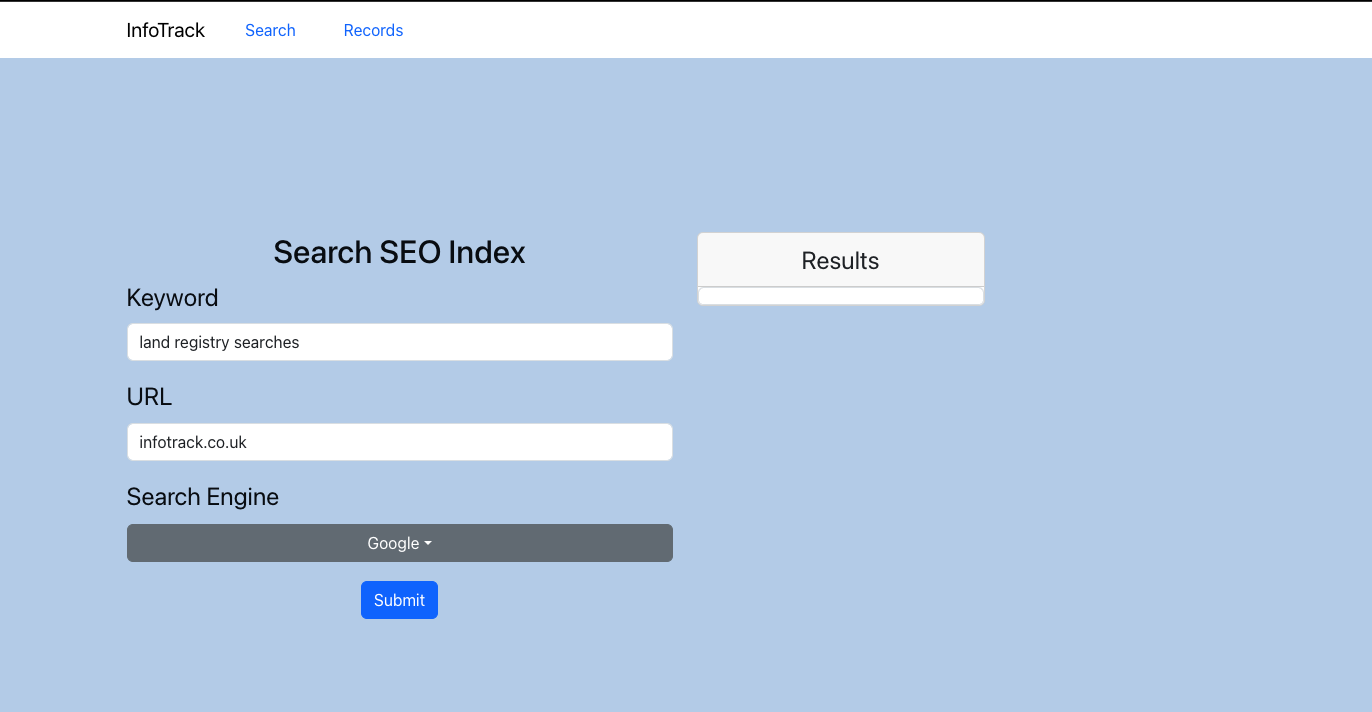
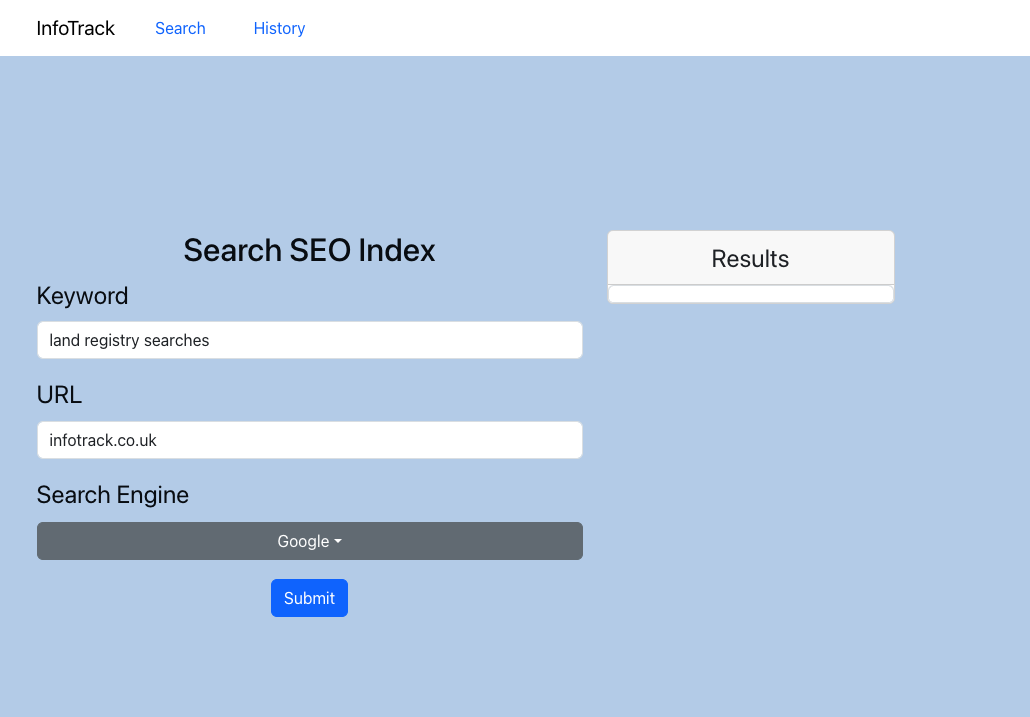
update

diff --git a/infotrackfe/src/view/Records.js b/infotrackfe/src/view/Records.js
@@ -1,5 +1,9 @@
 import React, { useState, useEffect } from 'react';
-import { Line } from 'react-chartjs-2';
+import { Container, Row, Col } from 'reactstrap';
+import 'bootstrap/dist/css/bootstrap.css';
+import Navbar from "../component/Navbar/SimpleNavBar.js";
+import HistoryTable from '../component/History/HistoryTable.js';
+import HistoryChart from '../component/History/HistoryChart.js';
 import {
   Chart as ChartJS,
   CategoryScale,
@@ -11,10 +15,7 @@ import {
   Legend,
   TimeScale
 } from 'chart.js';
-import 'chartjs-adapter-date-fns'; 
-import { Container, Row, Col, Dropdown, DropdownToggle, DropdownMenu, DropdownItem, Table } from 'reactstrap';
-import 'bootstrap/dist/css/bootstrap.css';
-import Navbar from "../component/Navbar/SimpleNavBar.js";
+import 'chartjs-adapter-date-fns';
 
 ChartJS.register(
   CategoryScale,
@@ -24,7 +25,7 @@ ChartJS.register(
   Title,
   Tooltip,
   Legend,
-  TimeScale 
+  TimeScale
 );
 
 function Records() {
@@ -36,7 +37,7 @@ function Records() {
     datasets: []
   });
   const [tableData, setTableData] = useState([]);
-  const [sortOrder, setSortOrder] = useState('asc'); 
+  const [sortOrder, setSortOrder] = useState('asc');
 
   useEffect(() => {
     fetch('http://localhost:5205/history')
@@ -61,8 +62,8 @@ function Records() {
   useEffect(() => {
     const filteredData = allData
       .filter(item => item.Keyword === 'land registry searches' &&
-                      item.Url === 'infotrack.co.uk' &&
-                      item.Display === 1);
+        item.Url === 'infotrack.co.uk' &&
+        item.Display === 1);
 
     const datasets = [];
     const datePositionMap = new Map();
@@ -89,8 +90,8 @@ function Records() {
         const dataset = {
           label: engine,
           data: positions,
-          borderColor: engine === 'Google' ? 'rgba(75,192,192,1)' : 'rgba(255,99,132,1)', 
-          backgroundColor: engine === 'Google' ? 'rgba(75,192,192,0.2)' : 'rgba(255,99,132,0.2)', 
+          borderColor: engine === 'Google' ? 'rgba(75,192,192,1)' : 'rgba(255,99,132,1)',
+          backgroundColor: engine === 'Google' ? 'rgba(75,192,192,0.2)' : 'rgba(255,99,132,0.2)',
           fill: true,
         };
 
@@ -125,97 +126,29 @@ function Records() {
     <div className="App">
       <Navbar />
       <div className="App-header">
+        <br/>
         <Container>
           <Row>
             <Col md={12}>
-              <h2>Ranking Trend</h2>
-              <Dropdown isOpen={dropdownOpen} toggle={toggleDropdown}>
-                <DropdownToggle caret>
-                  {selectedEngine}
-                </DropdownToggle>
-                <DropdownMenu>
-                  <DropdownItem onClick={() => setSelectedEngine('All')}>Show All</DropdownItem>
-                  <DropdownItem onClick={() => setSelectedEngine('Google')}>Google</DropdownItem>
-                  <DropdownItem onClick={() => setSelectedEngine('Bing')}>Bing</DropdownItem>
-                </DropdownMenu>
-              </Dropdown>
-              <Line
-                data={filteredGraphData}
-                options={{
-                  responsive: true,
-                  plugins: {
-                    legend: {
-                      position: 'top',
-                    },
-                    tooltip: {
-                      callbacks: {
-                        label: function (context) {
-                          return `Position: ${context.raw}`;
-                        },
-                        title: function () {
-                          return '';
-                        }
-                      },
-                    },
-                  },
-                  scales: {
-                    x: {
-                      type: 'time',
-                      time: {
-                        unit: 'day',
-                        tooltipFormat: 'dd/MM/yyyy', 
-                      },
-                      title: {
-                        display: true,
-                        text: 'Date',
-                      },
-                      ticks: {
-                        autoSkip: true,
-                        maxTicksLimit: 10, 
-                      },
-                    },
-                    y: {
-                      title: {
-                        display: true,
-                        text: 'Rank',
-                      },
-                      suggestedMin: 1,
-                      suggestedMax: 100,
-                      reverse: true,
-                    },
-                  },
-                }}
+              <HistoryChart
+                filteredGraphData={filteredGraphData}
+                selectedEngine={selectedEngine}
+                dropdownOpen={dropdownOpen}
+                toggleDropdown={toggleDropdown}
+                setSelectedEngine={setSelectedEngine}
               />
             </Col>
           </Row>
-          <br/>
+          <br />
           <Row>
             <Col md={12}>
               <h3>History Records</h3>
-              <Table striped>
-                <thead>
-                  <tr>
-                    <th>Keyword</th>
-                    <th>URL</th>
-                    <th>Search Engine</th>
-                    <th>Positions</th>
-                    <th onClick={sortDataByDate} style={{ cursor: 'pointer' }}>
-                      Date {sortOrder === 'asc' ? '🔼' : '🔽'}
-                    </th>
-                  </tr>
-                </thead>
-                <tbody>
-                  {tableData.map((record, index) => (
-                    <tr key={index}>
-                      <td>{record.Keyword}</td>
-                      <td>{record.Url}</td>
-                      <td>{record.SearchEngine}</td>
-                      <td>{record.Position}</td>
-                      <td>{formatDate(record.CreatedDate)}</td>
-                    </tr>
-                  ))}
-                </tbody>
-              </Table>
+              <HistoryTable
+                tableData={tableData}
+                sortDataByDate={sortDataByDate}
+                sortOrder={sortOrder}
+                formatDate={formatDate}
+              />
             </Col>
           </Row>
         </Container>

diff --git a/infotrackfe/src/component/History/HistoryChart.js b/infotrackfe/src/component/History/HistoryChart.js
@@ -1,0 +1,70 @@
+
+import React from 'react';
+import { Line } from 'react-chartjs-2';
+import {  Dropdown, DropdownToggle, DropdownMenu, DropdownItem} from 'reactstrap';
+const HistoryChart = ({ filteredGraphData, selectedEngine, dropdownOpen, toggleDropdown, setSelectedEngine }) => {
+  return (
+    <>
+      <h2>Ranking Trend</h2>
+      <Dropdown isOpen={dropdownOpen} toggle={toggleDropdown}>
+        <DropdownToggle caret>
+          {selectedEngine}
+        </DropdownToggle>
+        <DropdownMenu>
+          <DropdownItem onClick={() => setSelectedEngine('All')}>Show All</DropdownItem>
+          <DropdownItem onClick={() => setSelectedEngine('Google')}>Google</DropdownItem>
+          <DropdownItem onClick={() => setSelectedEngine('Bing')}>Bing</DropdownItem>
+        </DropdownMenu>
+      </Dropdown>
+      <Line
+        data={filteredGraphData}
+        options={{
+          responsive: true,
+          plugins: {
+            legend: {
+              position: 'top',
+            },
+            tooltip: {
+              callbacks: {
+                label: function (context) {
+                  return `Position: ${context.raw}`;
+                },
+                title: function () {
+                  return '';
+                }
+              },
+            },
+          },
+          scales: {
+            x: {
+              type: 'time',
+              time: {
+                unit: 'day',
+                tooltipFormat: 'dd/MM/yyyy',
+              },
+              title: {
+                display: true,
+                text: 'Date',
+              },
+              ticks: {
+                autoSkip: true,
+                maxTicksLimit: 10,
+              },
+            },
+            y: {
+              title: {
+                display: true,
+                text: 'Rank',
+              },
+              suggestedMin: 1,
+              suggestedMax: 100,
+              reverse: true,
+            },
+          },
+        }}
+      />
+    </>
+  );
+};
+
+export default HistoryChart;

diff --git a/infotrackfe/src/component/History/HistoryTable.js b/infotrackfe/src/component/History/HistoryTable.js
@@ -1,0 +1,34 @@
+
+import React from 'react';
+import { Table } from 'reactstrap';
+
+const HistoryTable = ({ tableData, sortDataByDate, sortOrder, formatDate }) => {
+  return (
+    <Table striped>
+      <thead>
+        <tr>
+          <th>Keyword</th>
+          <th>URL</th>
+          <th>Search Engine</th>
+          <th>Positions</th>
+          <th onClick={sortDataByDate} style={{ cursor: 'pointer' }}>
+            Date {sortOrder === 'asc' ? '🔼' : '🔽'}
+          </th>
+        </tr>
+      </thead>
+      <tbody>
+        {tableData.map((record, index) => (
+          <tr key={index}>
+            <td>{record.Keyword}</td>
+            <td>{record.Url}</td>
+            <td>{record.SearchEngine}</td>
+            <td>{record.Position}</td>
+            <td>{formatDate(record.CreatedDate)}</td>
+          </tr>
+        ))}
+      </tbody>
+    </Table>
+  );
+};
+
+export default HistoryTable;

diff --git a/infotrackfe/src/index.js b/infotrackfe/src/index.js
@@ -4,14 +4,14 @@ import './index.css';
 import { BrowserRouter, Route, Routes } from "react-router-dom";
 import App from './App';
 import reportWebVitals from './reportWebVitals';
-import SearchFrom from "./view/Search.js";
-import RecordFrom from "./view/Records.js";
+import SearchForm from "./view/Search.js";
+import RecordForm from "./view/Records.js";
 const root = ReactDOM.createRoot(document.getElementById('root'));
 
 root.render( <BrowserRouter>
   <Routes>
-      <Route path="/" element={<SearchFrom />} />
-      <Route path="/records" element={<RecordFrom />} />
+      <Route path="/" element={<SearchForm />} />
+      <Route path="/history" element={<RecordForm />} />
   </Routes>
 </BrowserRouter>
 );

diff --git a/infotrackfe/src/App.js b/infotrackfe/src/App.js
@@ -1,7 +1,7 @@
 import logo from './logo.svg';
 import './App.css';
 import Navbar from "./component/Navbar/SimpleNavBar.js";
-import SearchFrom from "./view/Search.js";
+import SearchForm from "./view/Search.js";
 function App() {
   return (
     
@@ -9,7 +9,7 @@ function App() {
       <Navbar/>
       <header className="App-header">
         
-        <SearchFrom/>
+        <SearchForm/>
       </header>
     </div>
   );

diff --git a/infotrackfe/src/component/Navbar/SimpleNavBar.js b/infotrackfe/src/component/Navbar/SimpleNavBar.js
@@ -20,7 +20,7 @@ function SimpleNavBar(args) {
               <NavLink href="/">Search</NavLink>
             </NavItem>
             <NavItem className="mx-2">
-              <NavLink href="/records/">Records</NavLink>
+              <NavLink href="/history/">History</NavLink>
             </NavItem>
           </Nav>
         </Container>
